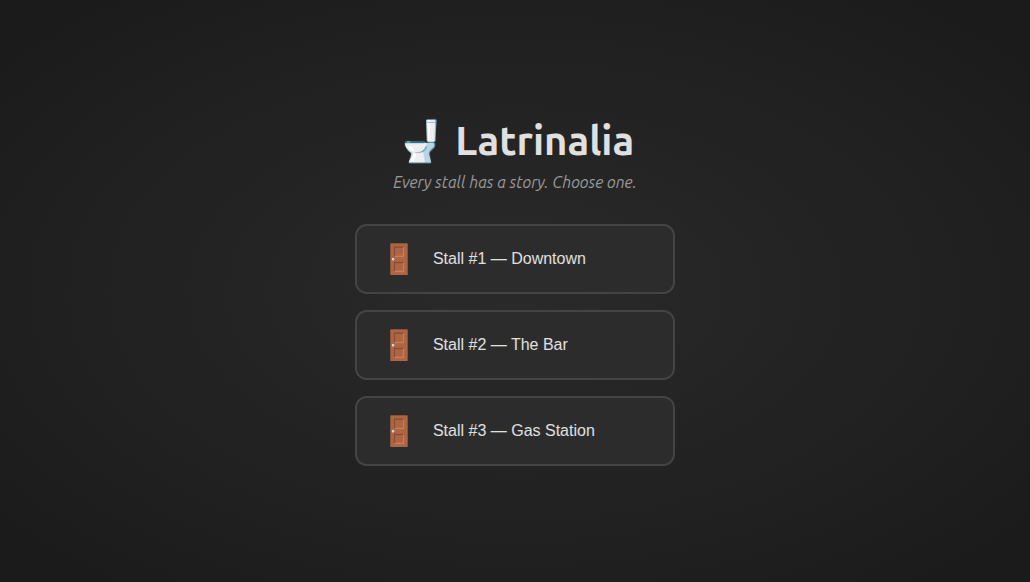
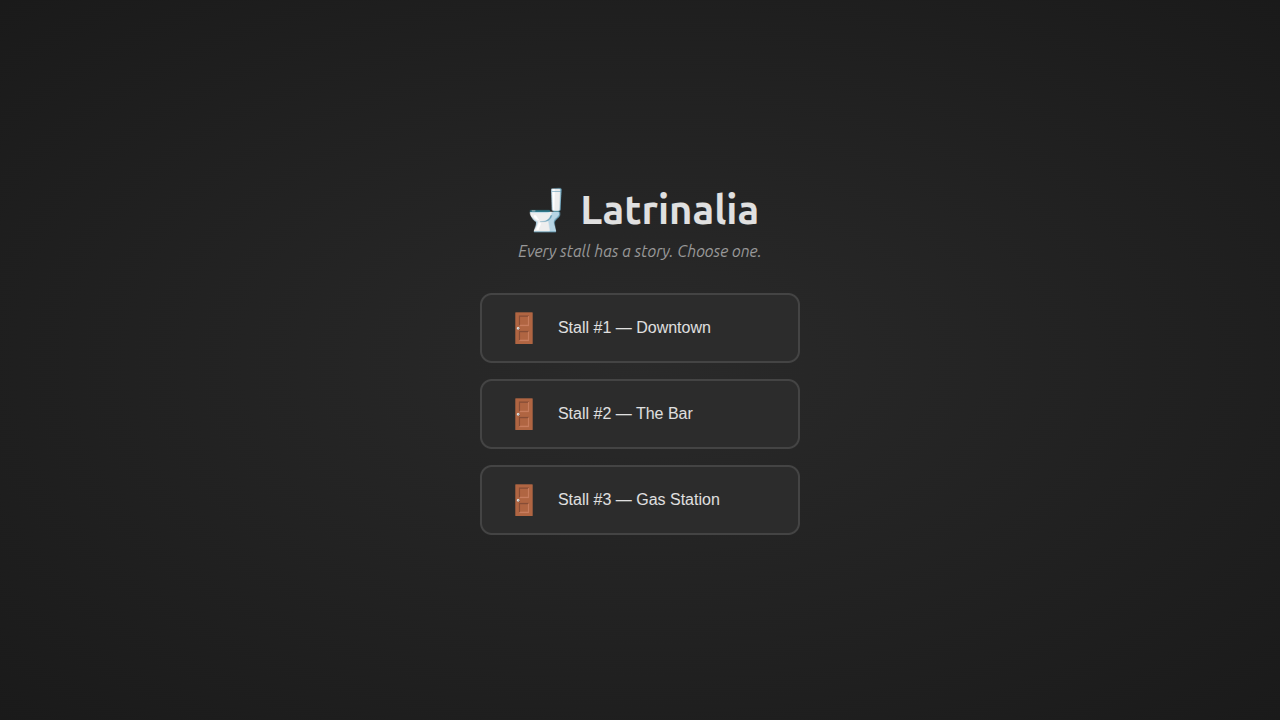
chore: update screenshots to uniform 1280×720 resolution (5 screenshots)
- Retake all screenshots at fixed 1280×720 via Chrome DevTools MCP
- Add janitor panel and clean stall screenshots (5 total)
- Fix .gitignore to only ignore root-level *.png
- Update README screenshot table to show all 5 views

diff --git a/product-intro slide.md b/product-intro slide.md
@@ -1,0 +1,87 @@
+<!--
+  Marp template — "burmese-first"
+  မြန်မာစာအတွက် — Pyidaungsu / Noto Sans Myanmar ဖောင့်နဲ့ ချိန်ညှိထား။
+  ကိုယ့် repo ထဲ ကူးထည့်ပါ (ဥပမာ slides/intro.md)၊ စာသားကို ပြောင်းပါ။
+  Render:  marp slides/intro.md -o slides.html   (or .pdf / .png)
+-->
+---
+marp: true
+paginate: true
+size: 16:9
+---
+
+<style>
+@import url('https://fonts.googleapis.com/css2?family=Noto+Sans+Myanmar:wght@400;600;700&family=Inter:wght@400;600;800&display=swap');
+:root { --bg:#fffdf9; --ink:#292524; --muted:#a8a29e; --accent:#d97706; --burnt:#9a3412; --line:#f1d9bf; --code:#1c1917; }
+section {
+  background:var(--bg); color:var(--ink);
+  font-family:'Pyidaungsu','Noto Sans Myanmar','Inter',sans-serif;
+  font-size:27px; line-height:1.7; padding:56px 72px;
+}
+h1 { color:var(--burnt); font-weight:700; border-bottom:4px solid var(--accent); padding-bottom:.2em; line-height:1.4; }
+h2 { color:var(--accent); font-weight:600; line-height:1.5; }
+h3 { color:var(--burnt); font-weight:600; }
+strong { color:var(--burnt); }
+a { color:#0369a1; text-decoration:none; }
+ul,ol { line-height:1.7; }
+code { background:#fff1e6; color:#be123c; padding:.06em .35em; border-radius:5px; font-family:'JetBrains Mono',ui-monospace,monospace; }
+pre  { background:var(--code); border-radius:10px; }
+pre code { background:none; color:#fde9d3; }
+blockquote { border-left:4px solid var(--accent); background:#fffbeb; color:#57534e; padding:.5em 1em; }
+table th { background:#fff1e6; color:var(--burnt); }
+table td, table th { border-color:var(--line); }
+header,footer,section::after { color:var(--muted); font-size:.5em; }
+section.cover {
+  background:linear-gradient(135deg,#7c2d12 0%, #b45309 50%, #d97706 100%);
+  color:#fff7ed;
+}
+section.cover h1 { border-bottom:none; color:#fff7ed; font-size:2.1em; }
+section.cover h2 { color:#ffedd5; font-weight:400; }
+section.lead { background:linear-gradient(135deg,#fff7ed,#ffedd5); }
+section.lead h1 { border-bottom:none; }
+</style>
+
+<!-- _class: cover -->
+
+# 🚽 Latrinalia
+
+## Anonymous toilet graffiti — digitised and preserved, one stall at a time
+
+**NanAungOo** · @nanaungoo · latrinalia-production.up.railway.app
+
+---
+
+# What is this
+
+- A digital toilet graffiti wall — anonymous sticker art on virtual stall doors
+- For anyone who has ever scribbled on a bathroom wall, or read one
+- Leave a message, pick a font and colour, drag it anywhere, and let the next person find it
+
+---
+
+# ဘယ်လို အလုပ်လုပ်လဲ
+
+```bash
+npm install
+npm run dev
+```
+
+Stack — **React 18 · Express.js · SQLite · Vite** · Built with Claude Code
+
+---
+
+<!-- _class: lead -->
+
+# Demo
+
+| Lobby | Compose | Stall Wall |
+|-------|---------|------------|
+| ![w:480](public/screenshot-lobby.png) | ![w:480](public/screenshot-compose.png) | ![w:480](public/screenshot-stall.png) |
+
+---
+
+# Link များ
+
+- **Live:** https://latrinalia-production.up.railway.app
+- **Repo:** github.com/nanaungoo/latrinalia
+- **License:** MIT

diff --git a/README.md b/README.md
@@ -11,9 +11,9 @@ A Progressive Web App that brings the age-old culture of anonymous toilet graffi
 
 ## Screenshots
 
-| Lobby | Graffiti Wall | Compose |
-|-------|---------------|---------|
-| ![Lobby](public/screenshot-lobby.png) | ![Stall](public/screenshot-stall.png) | ![Compose](public/screenshot-compose.png) |
+| Lobby | Stall Wall | Compose | Janitor | Clean Stall |
+|-------|------------|---------|---------|-------------|
+| ![Lobby](public/screenshot-lobby.png) | ![Stall](public/screenshot-stall.png) | ![Compose](public/screenshot-compose.png) | ![Janitor](public/screenshot-janitor.png) | ![Stall 2](public/screenshot-stall2.png) |
 
 ## How it works
 